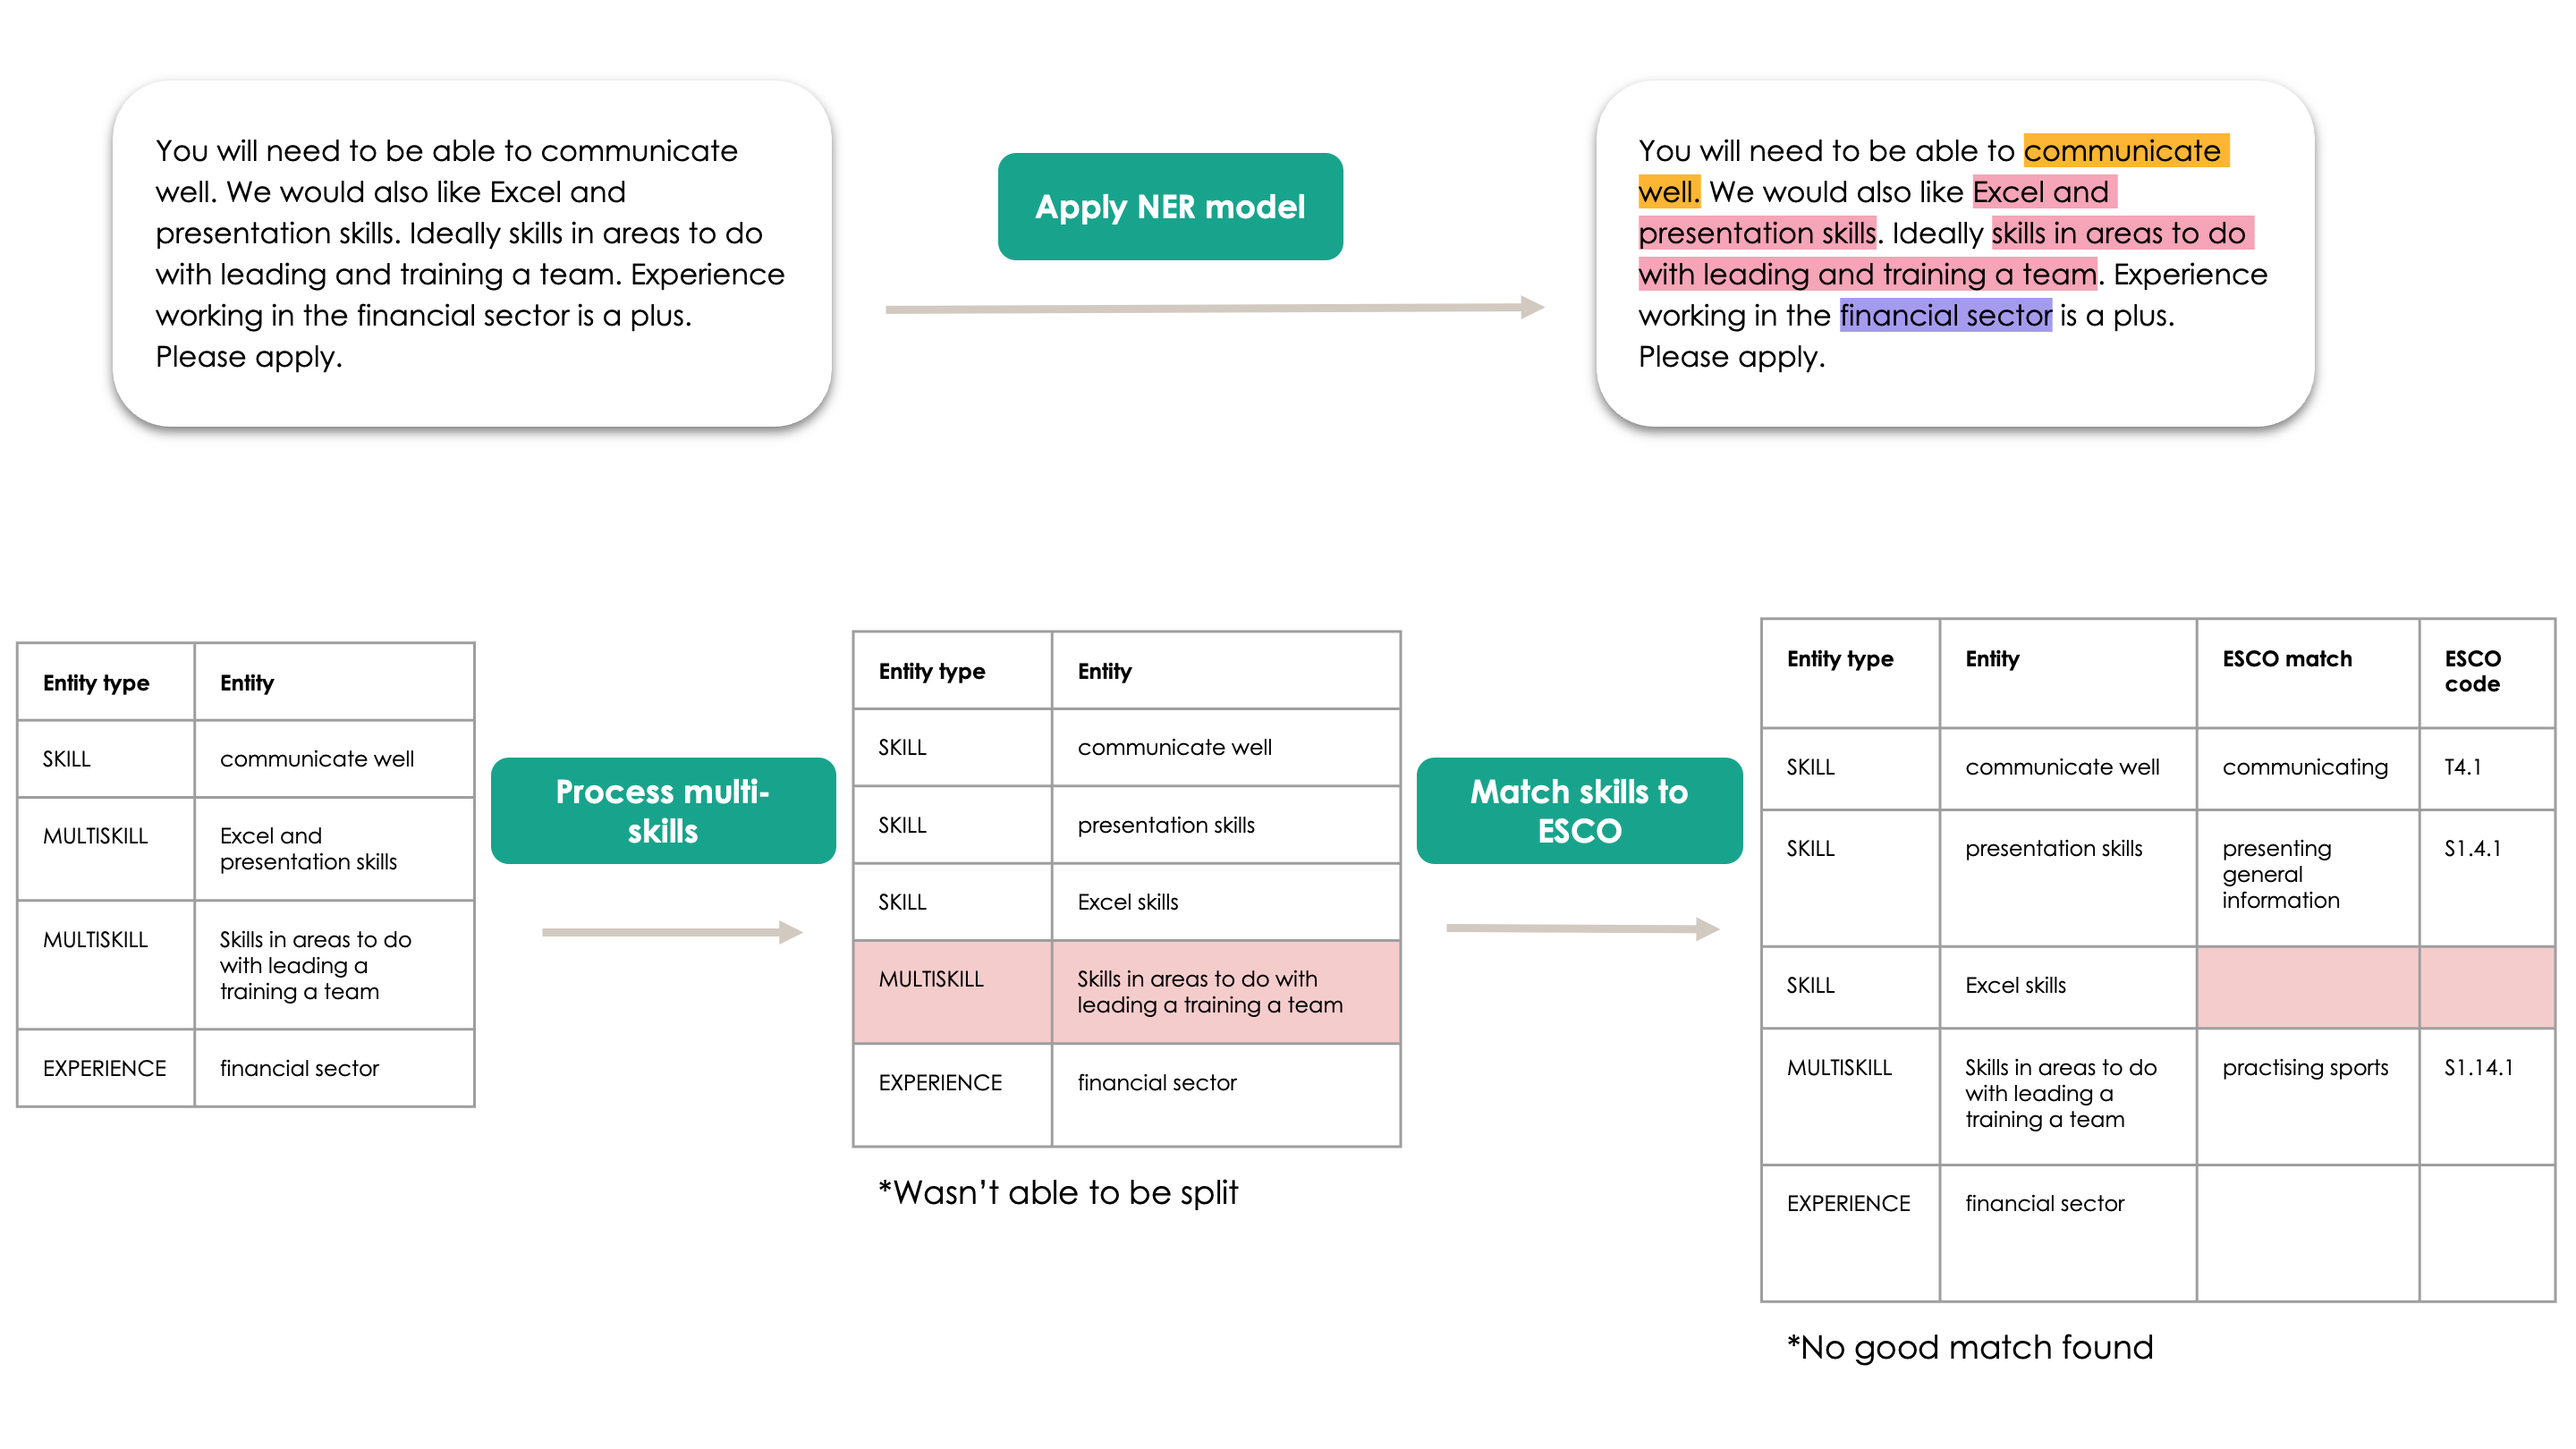
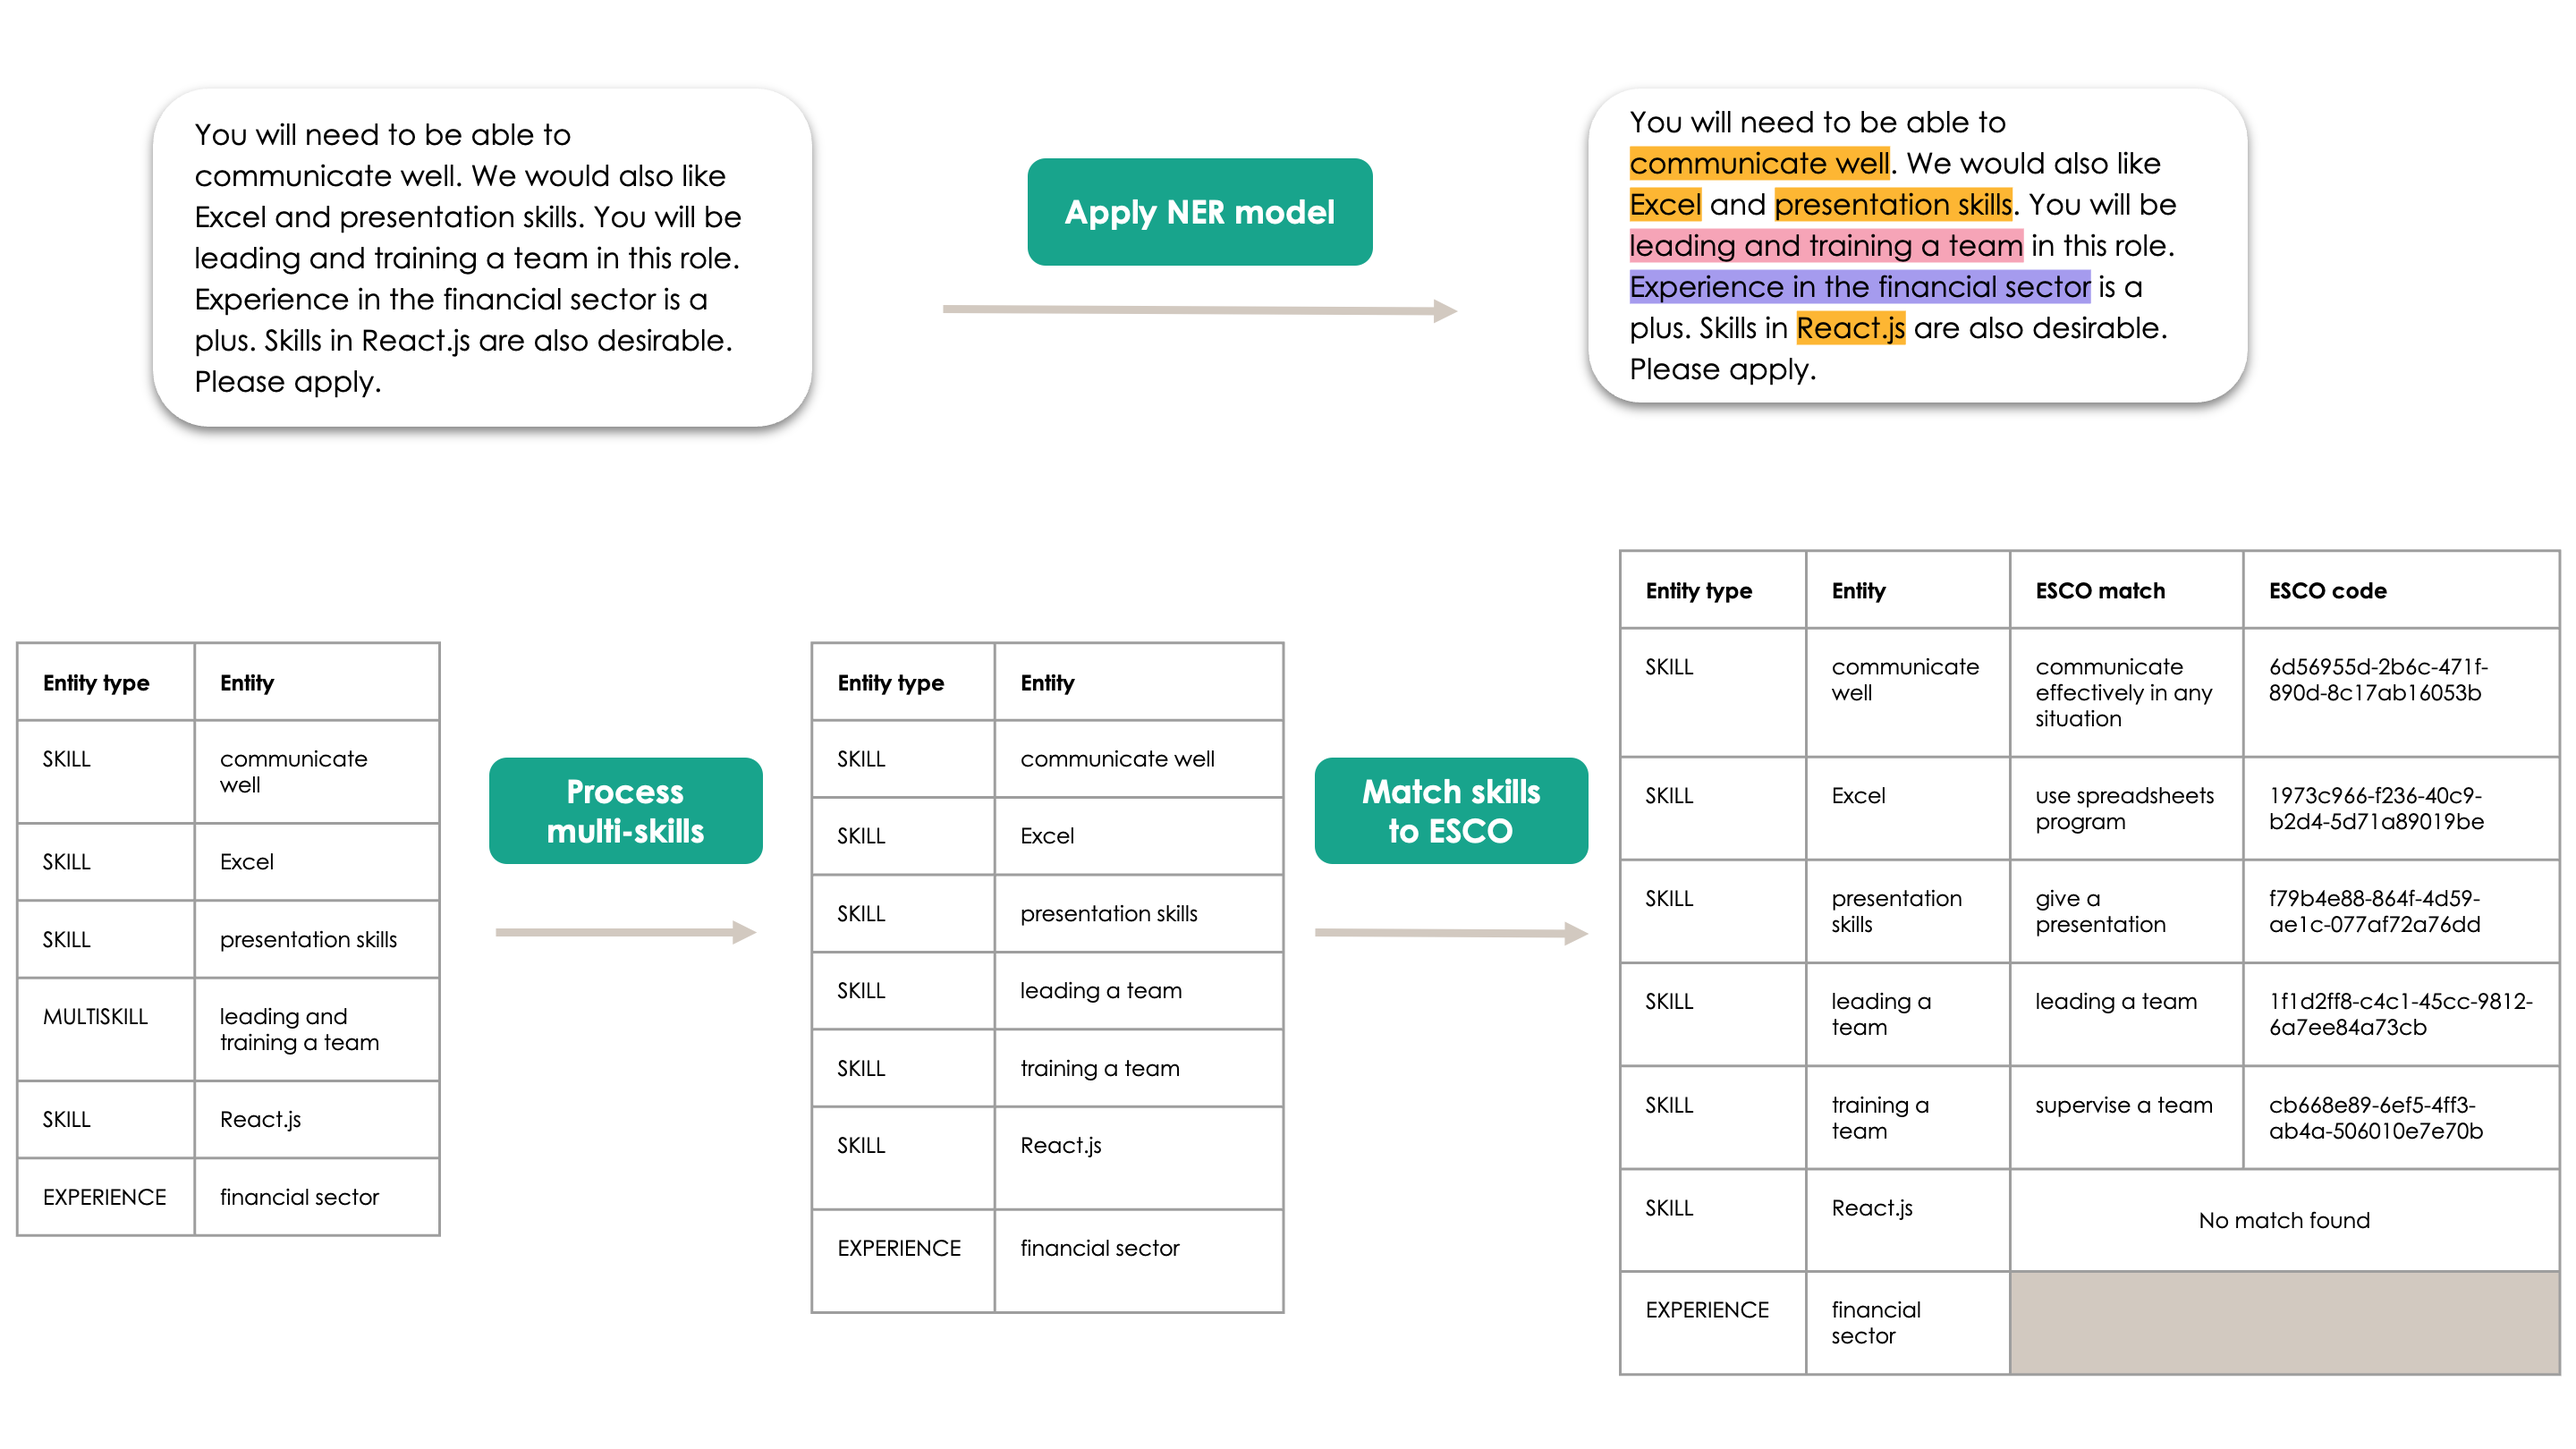
Update figures and correct outputs in readmes to use correct model results

diff --git a/README.md b/README.md
@@ -10,6 +10,8 @@ Welcome to the documentation of Nesta's skills extractor library.
 
 This page contains information on how to install and use Nesta's skills extraction library. The skills library allows you to extract skills phrases from job advertisement texts and maps them onto a skills taxonomy of your choice.
 
+![](outputs/reports/figures/highlevel_example.png)
+
 We currently support three different taxonomies to map onto: the [European Commission’s European Skills, Competences, and Occupations (ESCO)](https://esco.ec.europa.eu/en/about-esco/what-esco), [Lightcast’s Open Skills](https://skills.lightcast.io/) and a “toy” taxonomy developed internally for the purpose of testing.
 
 If you'd like to learn more about the models used in the library, please refer to the [model card page](https://nestauk.github.io/ojd_daps_skills/docs/source/model_card.md).
@@ -50,19 +52,18 @@ es = ExtractSkills(config_name="extract_skills_toy", local=True) #instantiate wi
 es.load() #load necessary models
 
 job_adverts = [
-    "The job involves communication and maths skills",
-    "The job involves excel and presenting skills. You need good excel skills",
+    "The job involves communication skills and maths skills",
+    "The job involves Excel skills. You will also need good presentation skills"
 ] #toy job advert examples
 
-job_skills_matched = es.extract_skills(predicted_skills) #match and extract skills to toy taxonomy
-
+job_skills_matched = es.extract_skills(job_adverts) #match and extract skills to toy taxonomy
 ```
 
 The outputs are as follows:
 
 ```
 job_skills_matched
->>> [{'SKILL': [('maths skills', ('communicate with others', 'S1.1'))]}, {'SKILL': [('presenting skills', ('communicate with others', 'S1.1')), ('excel skills', ('computational skills', 'K2.1'))]}]
+>>> [{'SKILL': [('communication skills', ('communication, collaboration and creativity', 'S1')), ('maths skills', ('working with computers', 'S5'))]}, {'SKILL': [('Excel skills', ('working with computers', 'S5')), ('presentation skills', ('communication, collaboration and creativity', 'S1'))]}]
 ```
 
 #### 2. Extract skills
@@ -77,8 +78,8 @@ es = ExtractSkills(config_name="extract_skills_toy", local=True) #instantiate wi
 es.load() #load necessary models
 
 job_adverts = [
-    "The job involves communication and maths skills",
-    "The job involves excel and presenting skills. You need good excel skills",
+    "The job involves communication skills and maths skills",
+    "The job involves Excel skills. You will also need good presentation skills"
 ] #toy job advert examples
 
 predicted_skills = es.get_skills(job_adverts) #extract skills from list of job adverts
@@ -88,7 +89,7 @@ The outputs are as follows:
 
 ```
 predicted_skills
->>> [{'EXPERIENCE': [], 'SKILL': ['maths skills'], 'MULTISKILL': []}, {'EXPERIENCE': [], 'SKILL': ['presenting skills', 'excel skills'], 'MULTISKILL': []}]
+[{'EXPERIENCE': [], 'SKILL': ['communication skills', 'maths skills'], 'MULTISKILL': []}, {'EXPERIENCE': [], 'SKILL': ['Excel skills', 'presentation skills'], 'MULTISKILL': []}]
 
 ```
 
@@ -116,10 +117,7 @@ The outputs are as follows:
 
 ```
 skills_list_matched
-[{'SKILL': [('working with computers',
-    ('communication, collaboration and creativity', 'S1')),
-   ('Excel skills', ('working with computers', 'S5')),
-   ('Communication', ('use communication techniques', 'cdef'))]}]
+>>> [{'SKILL': [('Excel skills', ('working with computers', 'S5')), ('Communication', ('use communication techniques', 'cdef')), ('working with computers', ('communication, collaboration and creativity', 'S1'))]}]
 ```
 
 Note:
@@ -157,10 +155,10 @@ The project is split into three core pipeline folders:
 - [skill_ner_mapping](https://github.com/nestauk/ojd_daps_skills/tree/dev/ojd_daps_skills/pipeline/skill_ner_mapping) - Matching skills to an existing skills taxonomy using semantic similarity.
 - [extract_skills](https://github.com/nestauk/ojd_daps_skills/tree/dev/ojd_daps_skills/pipeline/extract_skills) - User friendly functionality to extract and map skills from job adverts.
 
+Much more about these steps can be found in each of the pipeline folder READMEs.
+
 ![](outputs/reports/figures/overview.png)
 ![](outputs/reports/figures/overview_example.png)
-
-Much more about these steps can be found in [this report](outputs/reports/skills_extraction.md).
 
 ### Testing
 
